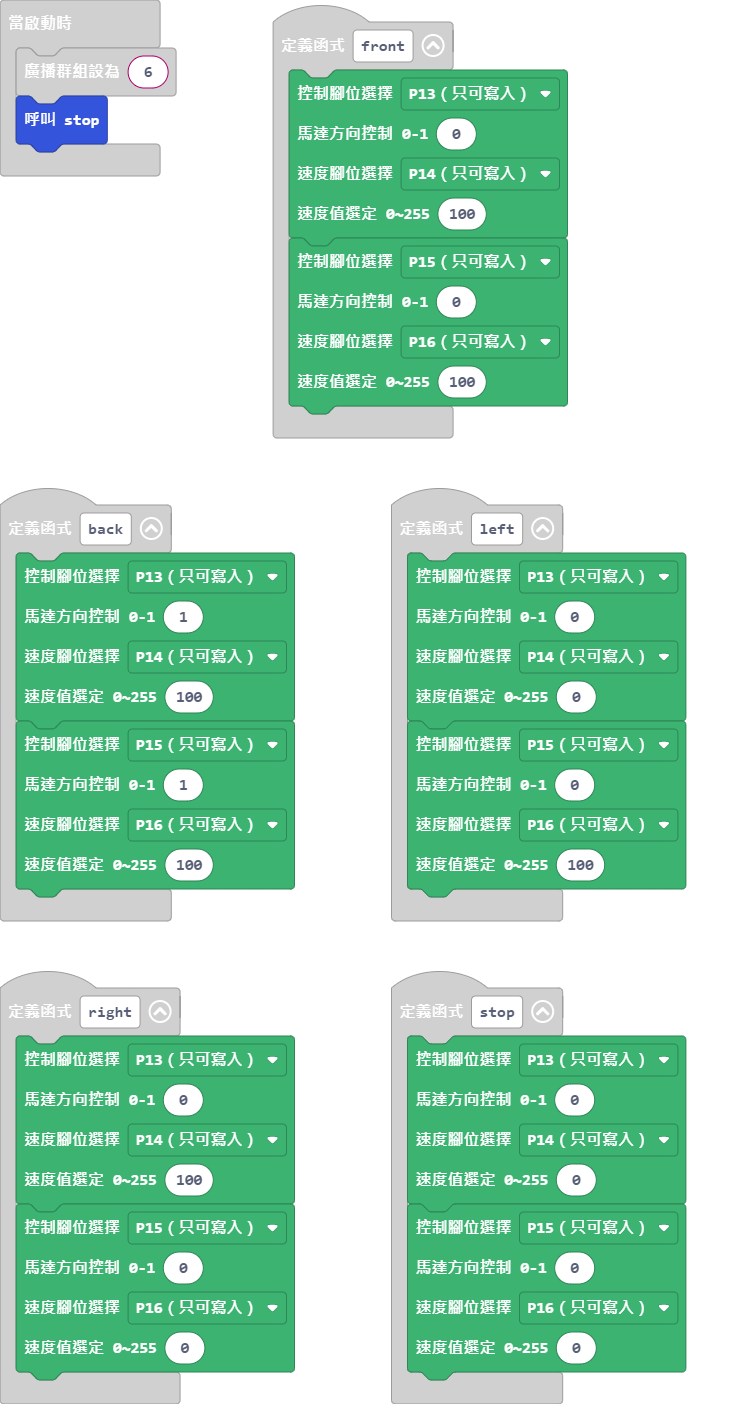
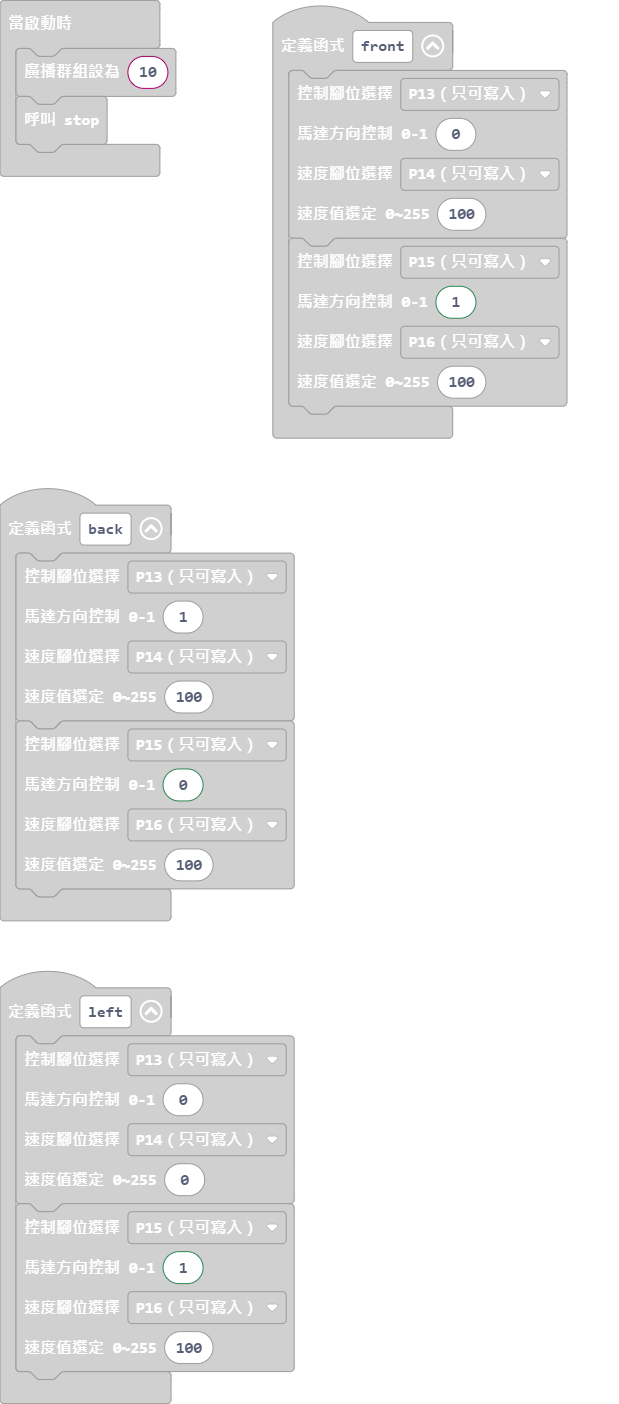
4

diff --git a/main.ts b/main.ts
@@ -34,7 +34,7 @@ function back () {
     )
     sensors.DDMmotor(
     AnalogPin.P15,
-    1,
+    0,
     AnalogPin.P16,
     100
     )
@@ -48,7 +48,7 @@ function front () {
     )
     sensors.DDMmotor(
     AnalogPin.P15,
-    0,
+    1,
     AnalogPin.P16,
     100
     )
@@ -62,7 +62,7 @@ function left () {
     )
     sensors.DDMmotor(
     AnalogPin.P15,
-    0,
+    1,
     AnalogPin.P16,
     100
     )
@@ -81,7 +81,7 @@ function stop () {
     0
     )
 }
-radio.setGroup(6)
+radio.setGroup(10)
 stop()
 basic.forever(function () {
 	
